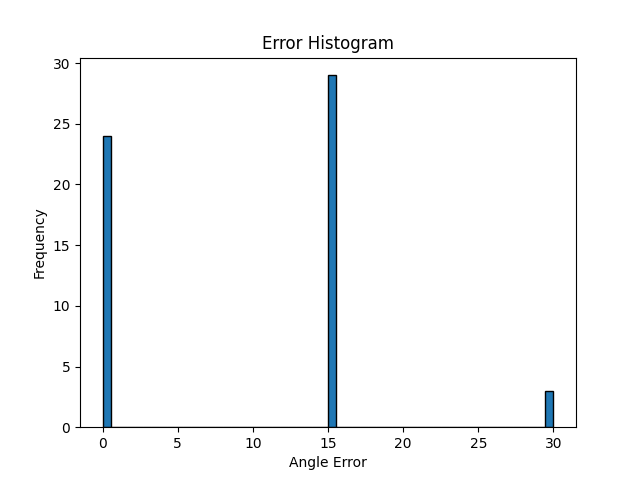
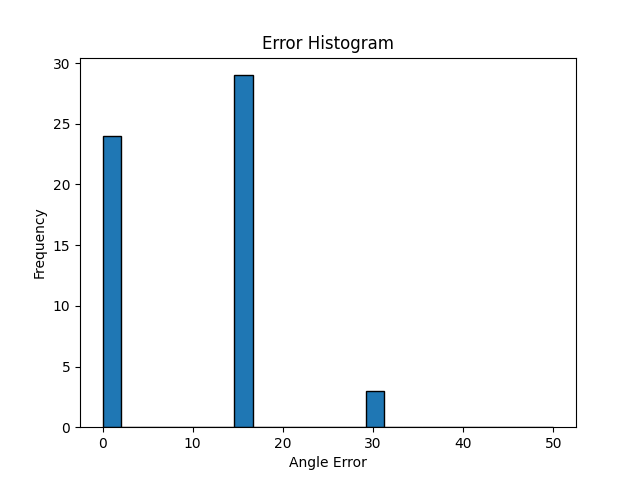
Fix bins

diff --git a/main.py b/main.py
@@ -56,14 +56,9 @@ end_time = time.time()
 
 print("Execution Time: %.2fs" % (end_time - start_time))
 print ("Mean: %.2f degrees" % np.array(errors).mean())
-print ("Std Dev: %.2f degrees" % np.array(errors).std())
+print ("Std Dev: %.2f degrees" % np.array(errors).std())    
 
-if (orient_method == OrientMethod.WEIGHT_AVG):
-    bins = np.linspace(0, 50, 25)
-else:
-    bins = len(errors)
-
-plt.hist(errors, bins=bins, histtype='bar', ec='black')
+plt.hist(errors, bins=np.linspace(0, 50, 25), histtype='bar', ec='black')
 plt.title('Error Histogram')
 plt.xlabel('Angle Error')
 plt.ylabel('Frequency')
